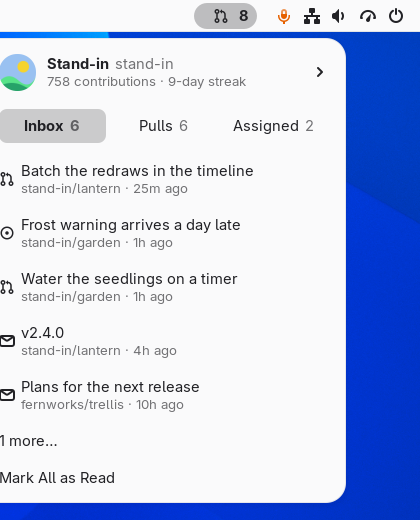
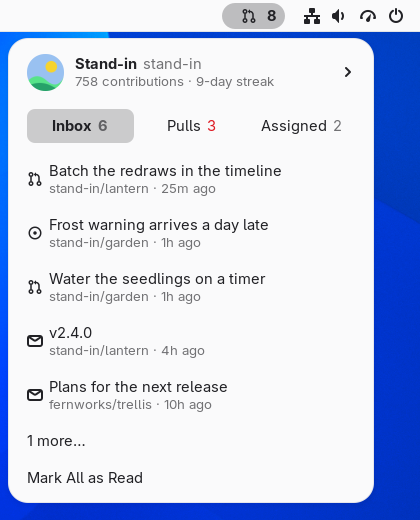
The Pulls tab counts what waits on you (#19)
Fixes #14

diff --git a/src/lib/indicator.js b/src/lib/indicator.js
@@ -16,18 +16,26 @@ import {GitHubBarGraph} from './graph.js';
 // Secondary text is dimmed with actor opacity, so it suits light and dark menus.
 const DIM_OPACITY = 160;
 
-// Each tab lists one or more groups of the dashboard; a group's option turns it off.
+// Your pull requests that wait on you rather than on others.
+function needsYou(pull) {
+    return pull.checks === 'failure' || pull.review === 'changes';
+}
+
+// Each tab lists one or more groups of the dashboard, and counts what waits on you there.
 const TABS = [
-    {title: 'Inbox', empty: 'No unread notifications', groups: [
-        {key: 'notifications', option: 'showNotifications', url: 'https://github.com/notifications'},
-    ]},
-    {title: 'Pulls', empty: 'No open pull requests', groups: [
-        {key: 'reviews', option: 'showPulls', title: 'Review Requests', url: 'https://github.com/pulls/review-requested'},
-        {key: 'pulls', option: 'showPulls', title: 'Your Pull Requests', url: 'https://github.com/pulls'},
-    ]},
-    {title: 'Assigned', empty: 'Nothing assigned to you', groups: [
-        {key: 'assigned', option: 'showAssigned', url: 'https://github.com/issues/assigned'},
-    ]},
+    {title: 'Inbox', option: 'showNotifications', empty: 'No unread notifications',
+        count: dashboard => dashboard.notifications.total, groups: [
+            {key: 'notifications', url: 'https://github.com/notifications'},
+        ]},
+    {title: 'Pulls', option: 'showPulls', empty: 'No open pull requests',
+        count: dashboard => dashboard.reviews.total + dashboard.pulls.items.filter(needsYou).length, groups: [
+            {key: 'reviews', title: 'Review Requests', url: 'https://github.com/pulls/review-requested'},
+            {key: 'pulls', title: 'Your Pull Requests', url: 'https://github.com/pulls'},
+        ]},
+    {title: 'Assigned', option: 'showAssigned', empty: 'Nothing assigned to you',
+        count: dashboard => dashboard.assigned.total, groups: [
+            {key: 'assigned', url: 'https://github.com/issues/assigned'},
+        ]},
 ];
 
 const REVIEW_TAGS = {approved: 'Approved', changes: 'Needs changes'};
@@ -236,8 +244,16 @@ export const GitHubBarIndicator = GObject.registerClass({
         TABS.forEach((tab, index) => {
             const button = this._buttons[index];
             button.visible = this._tabShown(tab);
-            const total = this._shown ? tab.groups.reduce((sum, group) => sum + this._shown[group.key].total, 0) : 0;
+            const total = this._shown ? tab.count(this._shown) : 0;
             button.count.text = total ? String(total) : '';
+            // Failed checks colour the Pulls count, so they are seen from any tab.
+            const failed = this._shown !== null &&
+                tab.groups.some(group => this._shown[group.key].items.some(item => item.checks === 'failure'));
+            button.count.opacity = failed ? 255 : DIM_OPACITY;
+            if (failed)
+                button.count.add_style_class_name('github-bar-failure');
+            else
+                button.count.remove_style_class_name('github-bar-failure');
         });
         this._tabsItem.visible = this._shown !== null && this._buttons.some(button => button.visible);
         this._select(this._tabShown(TABS[this._tab]) ? this._tab : this._firstTab());
@@ -261,7 +277,7 @@ export const GitHubBarIndicator = GObject.registerClass({
     }
 
     _tabShown(tab) {
-        return tab.groups.some(group => this._options?.[group.option]);
+        return this._options?.[tab.option] ?? false;
     }
 
     _firstTab() {
@@ -283,7 +299,7 @@ export const GitHubBarIndicator = GObject.registerClass({
     }
 
     _addList(tab, dashboard, options) {
-        const groups = tab.groups.filter(group => options[group.option] && dashboard[group.key].items.length);
+        const groups = tab.groups.filter(group => dashboard[group.key].items.length);
         if (!groups.length)
             this._list.addMenuItem(captionItem(tab.empty));
 

diff --git a/README.md b/README.md
@@ -3,7 +3,7 @@
 Your GitHub notifications, review requests and pull request CI status in the top bar of
 GNOME Shell.
 
-![The open menu under the top bar: the avatar and name of the account "stand-in", 758 contributions and a 9-day streak, then three tabs, Inbox 6, Pulls 6 and Assigned 2, with Inbox selected: five unread notifications, "1 more…" and Mark All as Read.](docs/screenshots/menu.png)
+![The open menu under the top bar: the avatar and name of the account "stand-in", 758 contributions and a 9-day streak, then three tabs, Inbox 6, Pulls 3 in red for failed checks and Assigned 2, with Inbox selected: five unread notifications, "1 more…" and Mark All as Read.](docs/screenshots/menu.png)
 
 ## What it does
 
@@ -14,7 +14,9 @@ GNOME Shell.
   a minute old; a small spinner beside your name says so, and the list stays put.
 - **Inbox**: your unread GitHub notifications; a click opens one and marks it read.
 - **Pulls**: open pull requests that ask for your review, then your own, each with its
-  checks (running, passed, failed) and review state.
+  checks (running, passed, failed) and review state. The tab counts what waits on you:
+  review requests, and your pull requests with failed checks or changes asked for. The
+  count turns red while checks have failed.
 - **Assigned**: open issues and pull requests assigned to you.
 - **Your contributions**: a click on your name unfolds the last weeks of your calendar, in
   the accent colour, and a link to your profile.
@@ -23,7 +25,7 @@ GNOME Shell.
 
 ![The top bar's right end: the pull request glyph and the count 8, beside the system icons.](docs/screenshots/top-bar-cropped.png)
 
-![The same menu with the profile unfolded, the contribution calendar in blue and Open Profile on GitHub under the name, and the Pulls tab selected: two review requests and four of your pull requests: one with checks running, one with checks passed and "Approved", one with checks failed and "Needs changes", and one "Draft".](docs/screenshots/menu-profile.png)
+![The same menu with the profile unfolded, the contribution calendar in blue and Open Profile on GitHub under the name, and the Pulls tab selected (its count 3 in red): two review requests and four of your pull requests: one with checks running, one with checks passed and "Approved", one with checks failed and "Needs changes", and one "Draft".](docs/screenshots/menu-profile.png)
 
 ![A notification banner: "Checks passed on stand-in/garden#42", with the pull request's title "Water the seedlings on a timer".](docs/screenshots/notification.png)
 

diff --git a/CLAUDE.md b/CLAUDE.md
@@ -61,7 +61,9 @@ docs/publishing.md      the zip, and how it meets the extensions.gnome.org revie
   `PopupSubMenuMenuItem` whose label is replaced by the avatar, names and stats, with the
   shell's `Animation.Spinner` before its arrow while a fetch runs), its submenu (the graph
   and Open Profile on GitHub), and a strip of three tabs (`TABS`: Inbox, Pulls, Assigned),
-  St.Buttons in the theme's `button` style, `flat` but for the selected one. Only the
+  St.Buttons in the theme's `button` style, `flat` but for the selected one, each with the
+  count of what waits on you there (Pulls: review requests, and your pull requests with
+  failed checks or changes requested; red while checks have failed). Only the
   selected tab's list is rebuilt, inside an `St.ScrollView` that replaces a
   `PopupMenuSection`'s actor, as the shell's `PopupSubMenu` does (with the `_delegate` set,
   or the menu never sees the section and leaks it on disable); keyboard focus scrolls itself
